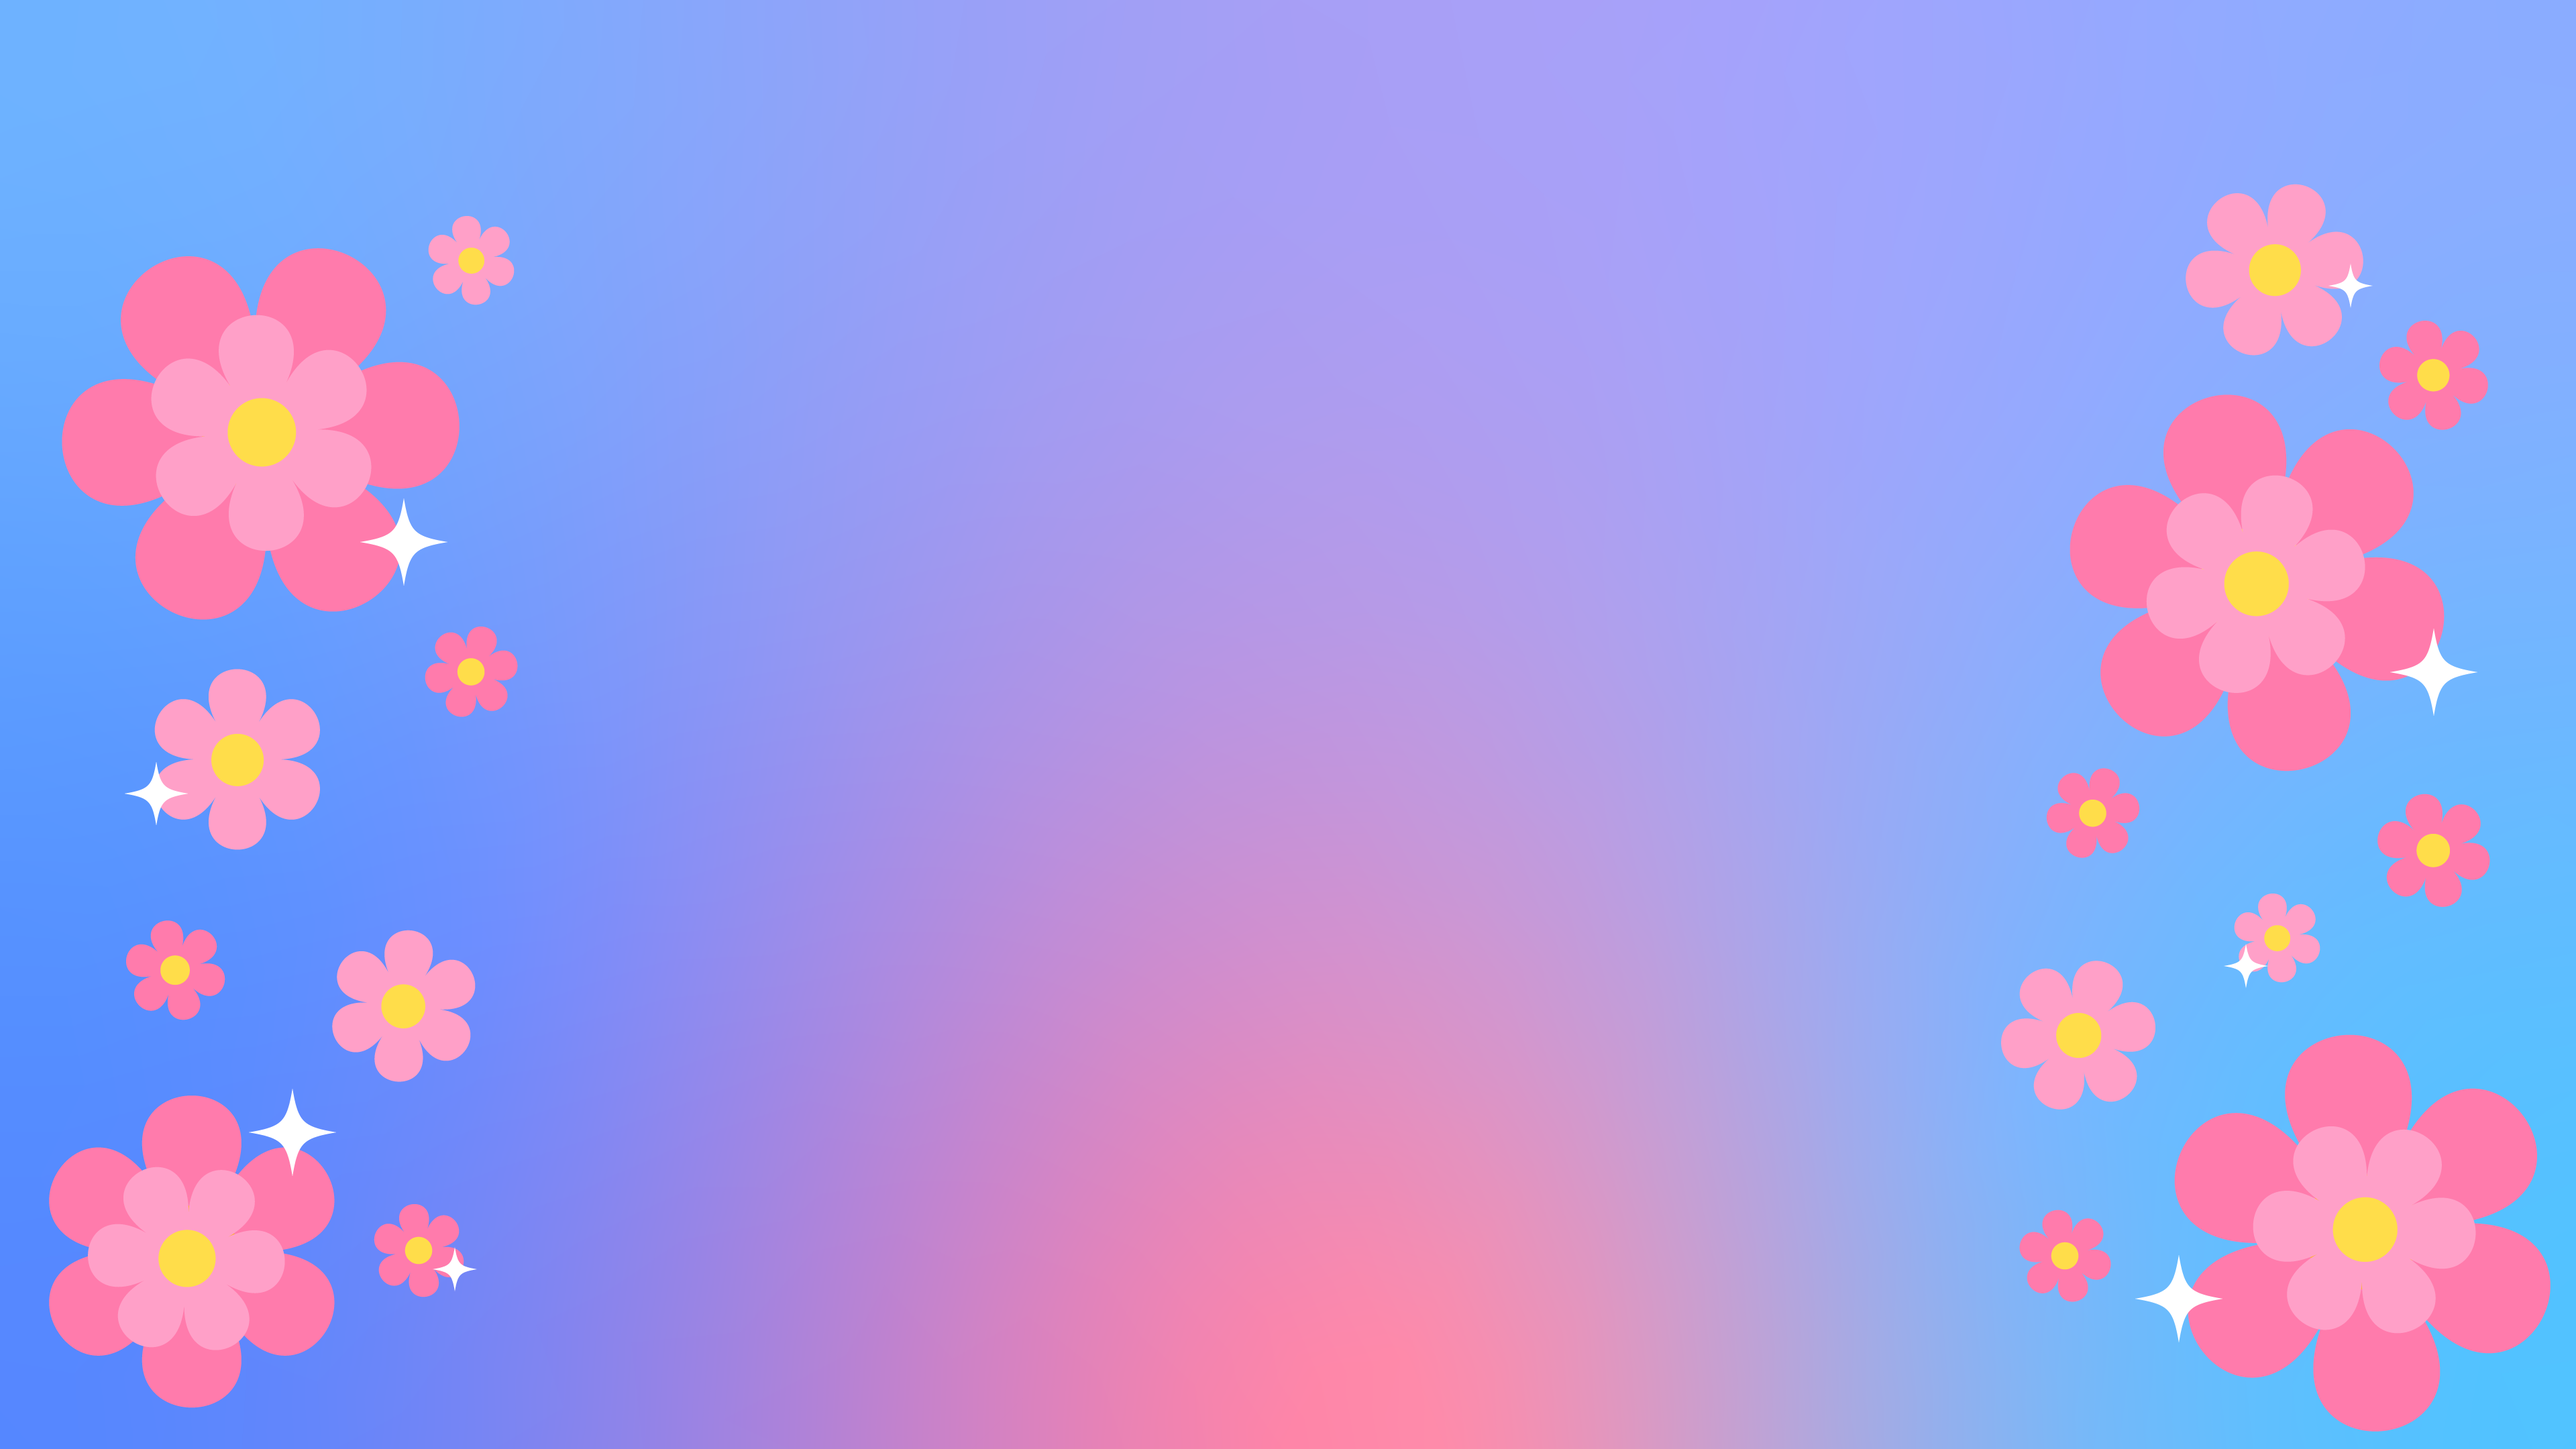
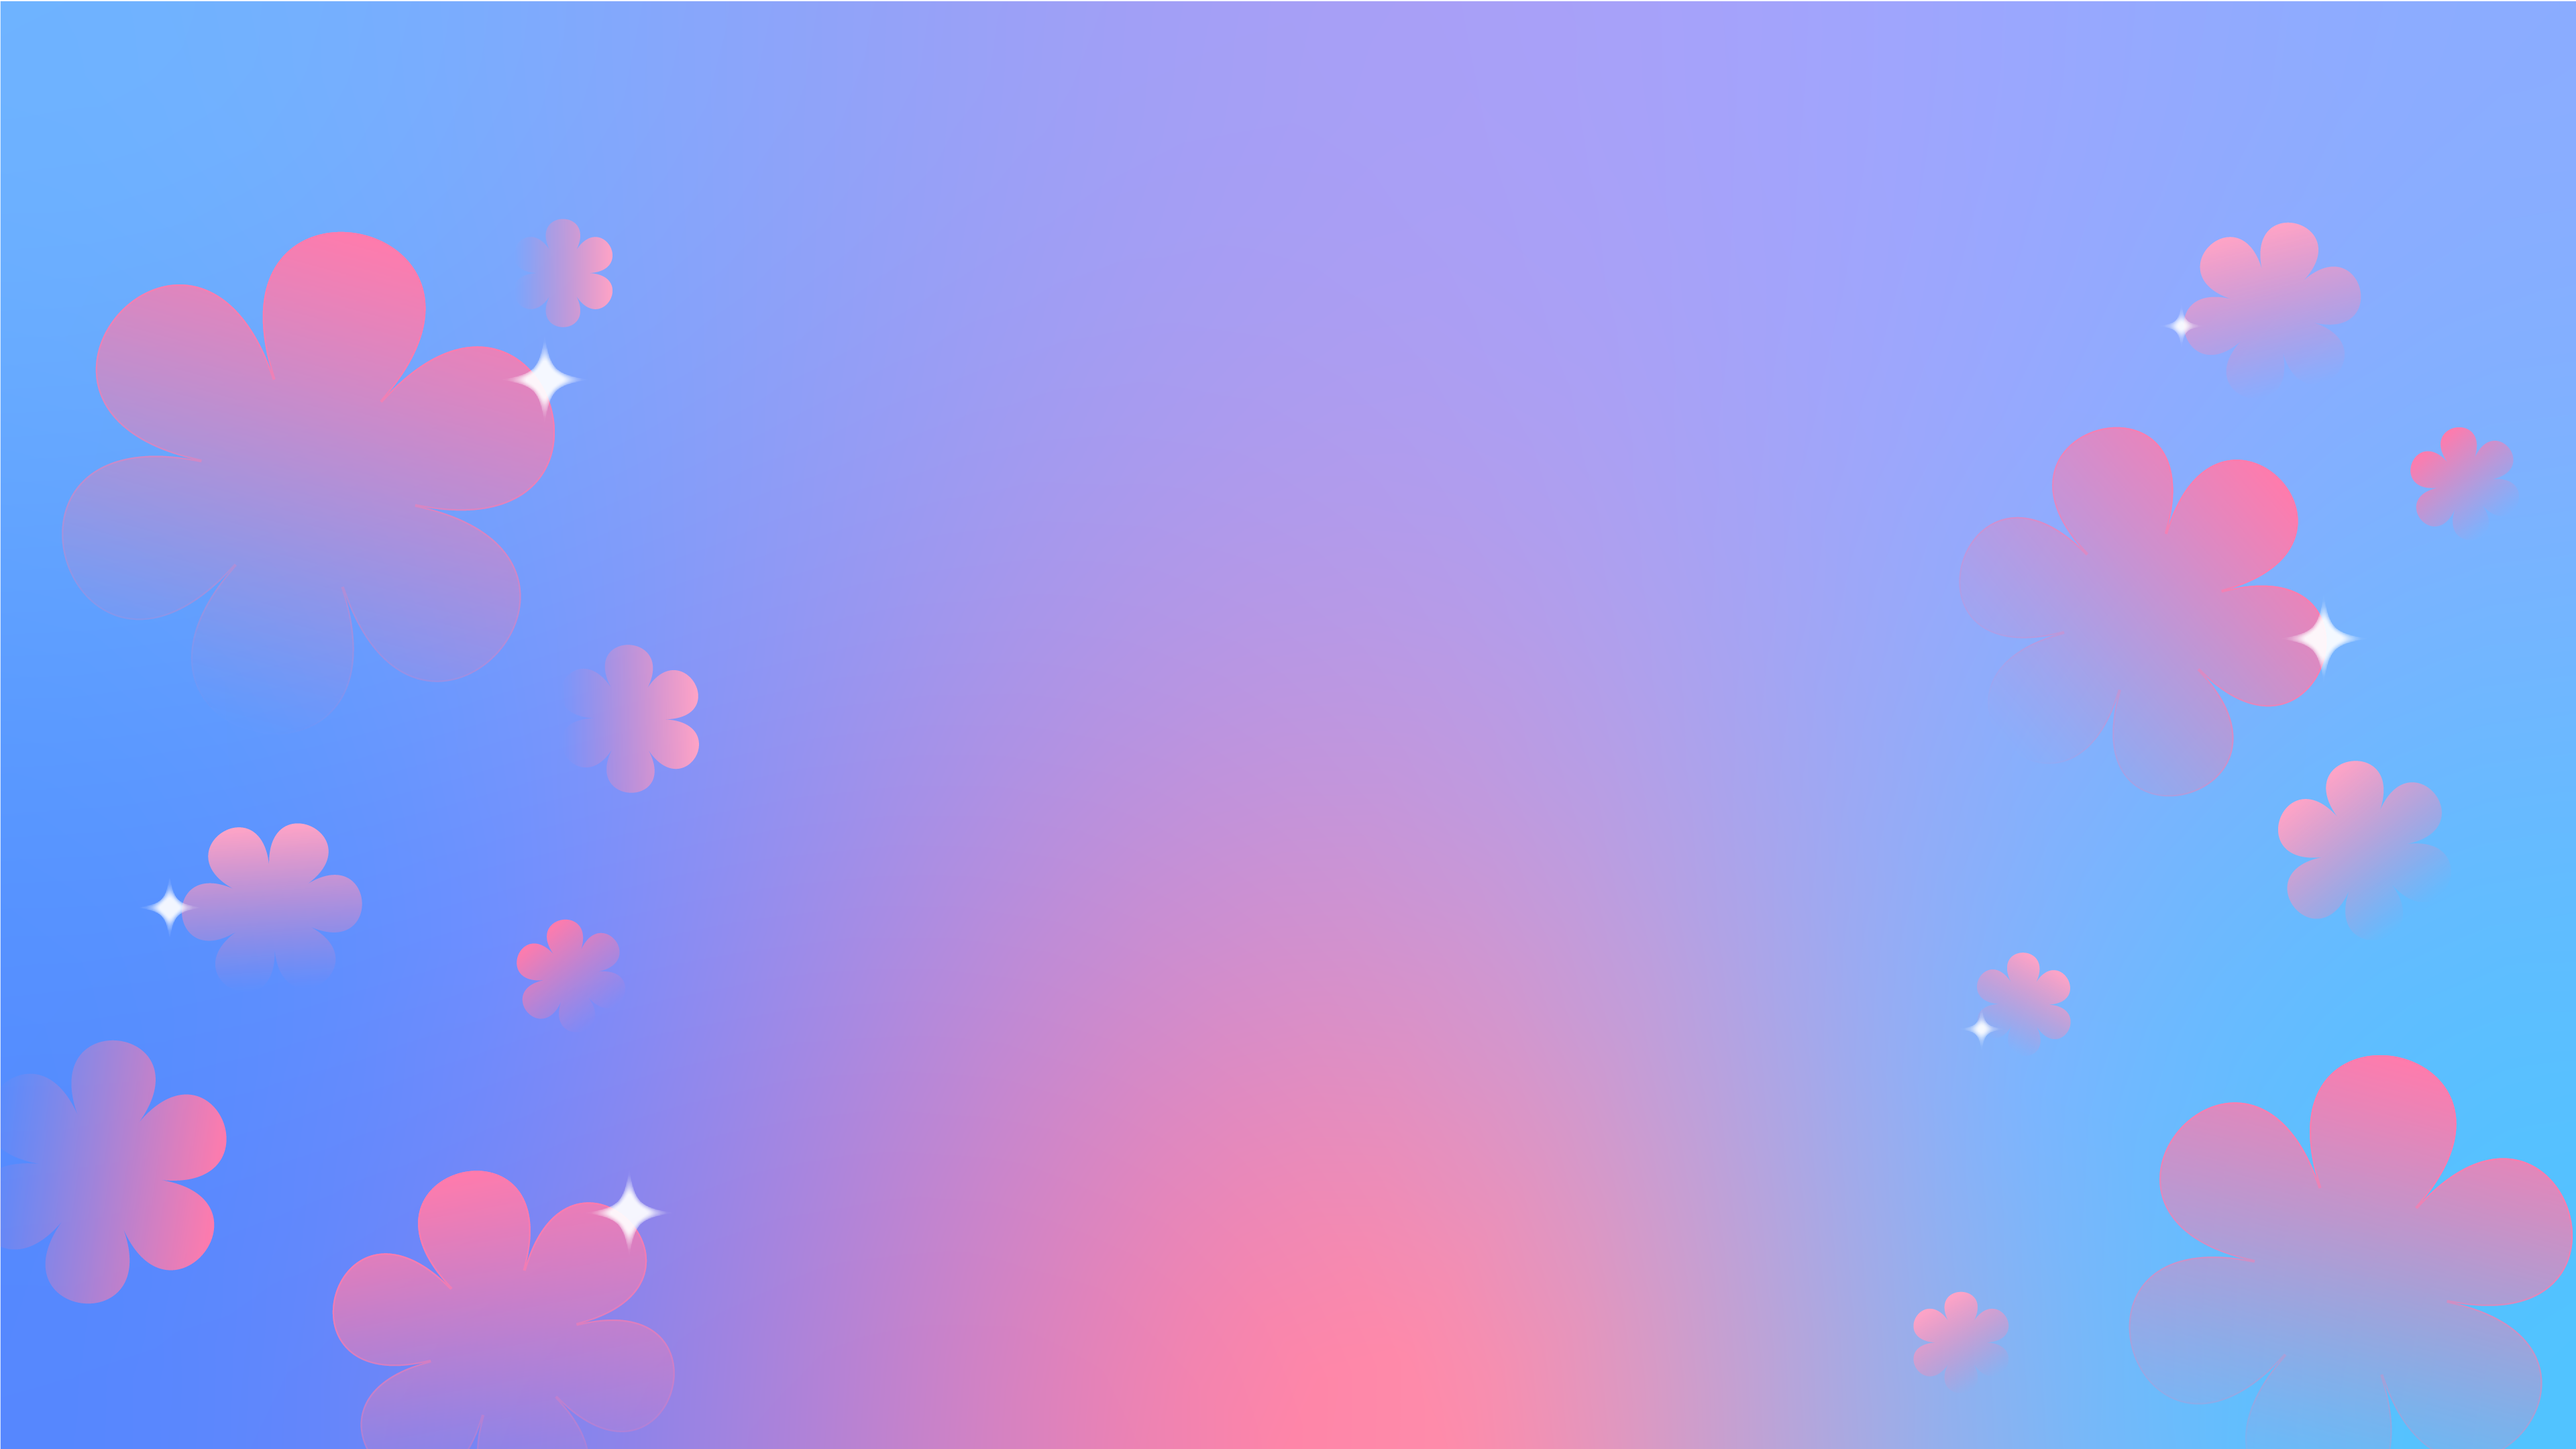
added background animation

Changed region(s): [[0.0, 0.1551, 0.2812, 1.0], [0.75, 0.1241, 1.0, 1.0], [0.7188, 0.8995, 0.7812, 0.9616]]

diff --git a/index.html b/index.html
@@ -17,18 +17,18 @@
     />
 
 	<link rel="stylesheet" href="css/styles.css">
+    <link rel="stylesheet" href="css/fade.css">
+    <link rel="stylesheet" href="test/firefly.pug">
 	<link rel="stylesheet" href="hover.css">
 
-	<link rel="preconnect" href="https://fonts.googleapis.com">
-    <link rel="preconnect" href="https://fonts.gstatic.com" crossorigin>
-    <link href="https://fonts.googleapis.com/css2?family=Playfair+Display:ital,wght@0,400;0,500;0,600;0,700;0,800;0,900;1,400;1,500;1,600;1,700;1,800;1,900&family=Raleway:ital,wght@0,100;0,200;0,300;0,400;0,500;0,600;0,700;0,800;0,900;1,100;1,200;1,300;1,400;1,500;1,600;1,700;1,800;1,900&display=swap" rel="stylesheet">
+	
 
 	<script src="https://kit.fontawesome.com/1638ad5f6b.js" crossorigin="anonymous"></script>
 </head>
  <!-- Navbar -->
  <body>
     <div  class="container-fluid splash">
-    <nav class="navbar navbar-expand-lg ">
+    <nav class="navbar navbar-light navbar-expand-lg ">
         <a class="navbar-brand" href="#"> <img id="navbarLogo" src="images/Logo.png" ></a>
         <button class="navbar-toggler" type="button" data-toggle="collapse" data-target="#navbarSupportedContent" aria-controls="navbarSupportedContent" aria-expanded="false" aria-label="Toggle navigation">
         <span class="navbar-toggler-icon"></span>
@@ -36,13 +36,13 @@
         <div class="collapse navbar-collapse" id="navbarSupportedContent">
         <ul class="navbar-nav ml-auto">
             <li class="navbar-item">
-                <a href='#pricing' class="nav-link">Work</a>
+                <a href='#work' class="nav-link">Work</a>
             </li>
             <li class="navbar-item">
-                <a href='#pricing' class="nav-link">About</a>
+                <a href='pages/about.html' class="nav-link">About</a>
             </li>
             <li class="navbar-item">
-                <a href='#' class="nav-link">Resume</a>
+                <a href='pages/resume.html' class="nav-link">Resume</a>
             </li>
             <li class="navbar-item">
             <a href='#footer' class="nav-link">Contact</a>
@@ -55,6 +55,32 @@
             <h1>rachel!</h1>
             <h3>designer & dreamer</h3>
         </div>
+        <div class="fade-blurb">
+        <h5>
+            <span>I'm</span>
+            <span>a</span>
+            <span>UI/UX</span>
+            <span>designer</span>
+            <span>at</span>
+            <span>UC</span>
+            <span>San</span>
+            <span>Diego</span>
+            <span>that</span>
+            <span>combines</span>
+        </h5>
+        <h5>
+            <span>functionality</span>
+            <span>with</span>
+            <span>imagination</span>
+            <span>to</span>
+            <span>tell</span>
+            <span>users</span>
+            <span>compelling</span>
+            <span>stories</span>
+            <span>:)</span>
+          </h5>
+        </div>
+      
     </div>
     <div id="work">
         <h2 class="header">
@@ -82,7 +108,7 @@
         <div class="reveal preview-card row"> 
 
             <div class="col-sm-6 order-first order-md-2 image-holder">
-                <img onClick="self.location='pages/evolve.html'" class="project-image-right"  src="images/debatetable_flower.png">
+                <img onClick="window.open('https://debatetable.wixsite.com/portfolio', '_blank')" class="hvr-float-shadow project-image-right" src="images/debatetable_flower.png" alt="DebateTable login and homepage prototype screens">
             </div>   
   
             <div class="col-sm-6 ">
@@ -121,7 +147,7 @@
                     </p>
                     <br>
                     <div class="hvr-grow">
-                    <button type="button" class="btn-lg btn-primary" onClick="self.location='pages/evolve.html'">view case study</button>
+                    <button type="button" class="btn-lg btn-primary" onClick="self.location='pages/cki.html'">view case study</button>
                     </div>
                 </div>
             </div>     
@@ -170,7 +196,9 @@
 
     <script src="https://code.jquery.com/jquery-3.3.1.slim.min.js" integrity="sha384-q8i/X+965DzO0rT7abK41JStQIAqVgRVzpbzo5smXKp4YfRvH+8abtTE1Pi6jizo" crossorigin="anonymous"></script>
     <script src="https://cdn.jsdelivr.net/npm/popper.js@1.14.7/dist/umd/popper.min.js" integrity="sha384-UO2eT0CpHqdSJQ6hJty5KVphtPhzWj9WO1clHTMGa3JDZwrnQq4sF86dIHNDz0W1" crossorigin="anonymous"></script>
-    <script src="https://cdn.jsdelivr.net/npm/bootstrap@4.3.1/dist/js/bootstrap.min.js" integrity="sha384-JjSmVgyd0p3pXB1rRibZUAYoIIy6OrQ6VrjIEaFf/nJGzIxFDsf4x0xIM+B07jRM" crossorigin="anonymous"></script>
+    <script  src="https://stackpath.bootstrapcdn.com/bootstrap/4.5.2/js/bootstrap.min.js"
+    integrity="sha384-B4gt1jrGC7Jh4AgTPSdUtOBvfO8shuf57BaghqFfPlYxofvL8/KUEfYiJOMMV+rV"
+    crossorigin="anonymous"></script>
     <script src="js/script.js"></script>
 </body>
 

diff --git a/css/fade.css b/css/fade.css
@@ -1,0 +1,101 @@
+h1, h3, h5 {
+    /* font-family: "Montserrat Medium";
+    max-width: 40ch; */
+    text-align: center;
+    transform: scale(0.94);
+    animation: scale 3s forwards cubic-bezier(0.5, 1, 0.89, 1);
+  }
+  @keyframes scale {
+    100% {
+      transform: scale(1);
+    }
+  }
+  
+  span {
+    display: inline-block;
+    opacity: 0;
+    filter: blur(4px);
+  }
+  
+  span:nth-child(1) {
+    animation: fade-in 0.8s 0.1s forwards cubic-bezier(0.11, 0, 0.5, 0);
+  }
+  
+  span:nth-child(2) {
+    animation: fade-in 0.8s 0.2s forwards cubic-bezier(0.11, 0, 0.5, 0);
+  }
+  
+  span:nth-child(3) {
+    animation: fade-in 0.8s 0.3s forwards cubic-bezier(0.11, 0, 0.5, 0);
+  }
+  
+  span:nth-child(4) {
+    animation: fade-in 0.8s 0.4s forwards cubic-bezier(0.11, 0, 0.5, 0);
+  }
+  
+  span:nth-child(5) {
+    animation: fade-in 0.8s 0.5s forwards cubic-bezier(0.11, 0, 0.5, 0);
+  }
+  
+  span:nth-child(6) {
+    animation: fade-in 0.8s 0.6s forwards cubic-bezier(0.11, 0, 0.5, 0);
+  }
+  
+  span:nth-child(7) {
+    animation: fade-in 0.8s 0.7s forwards cubic-bezier(0.11, 0, 0.5, 0);
+  }
+  
+  span:nth-child(8) {
+    animation: fade-in 0.8s 0.8s forwards cubic-bezier(0.11, 0, 0.5, 0);
+  }
+  
+  span:nth-child(9) {
+    animation: fade-in 0.8s 0.9s forwards cubic-bezier(0.11, 0, 0.5, 0);
+  }
+  
+  span:nth-child(10) {
+    animation: fade-in 0.8s 1s forwards cubic-bezier(0.11, 0, 0.5, 0);
+  }
+  
+  span:nth-child(11) {
+    animation: fade-in 0.8s 1.1s forwards cubic-bezier(0.11, 0, 0.5, 0);
+  }
+  
+  span:nth-child(12) {
+    animation: fade-in 0.8s 1.2s forwards cubic-bezier(0.11, 0, 0.5, 0);
+  }
+  
+  span:nth-child(13) {
+    animation: fade-in 0.8s 1.3s forwards cubic-bezier(0.11, 0, 0.5, 0);
+  }
+  
+  span:nth-child(14) {
+    animation: fade-in 0.8s 1.4s forwards cubic-bezier(0.11, 0, 0.5, 0);
+  }
+  
+  span:nth-child(15) {
+    animation: fade-in 0.8s 1.5s forwards cubic-bezier(0.11, 0, 0.5, 0);
+  }
+  
+  span:nth-child(16) {
+    animation: fade-in 0.8s 1.6s forwards cubic-bezier(0.11, 0, 0.5, 0);
+  }
+  
+  span:nth-child(17) {
+    animation: fade-in 0.8s 1.7s forwards cubic-bezier(0.11, 0, 0.5, 0);
+  }
+  
+  span:nth-child(18) {
+    animation: fade-in 0.8s 1.8s forwards cubic-bezier(0.11, 0, 0.5, 0);
+  }
+  span:nth-child(19) {
+    animation: fade-in 0.8s 1.9s forwards cubic-bezier(0.11, 0, 0.5, 0);
+  }
+  
+  @keyframes fade-in {
+    100% {
+      opacity: 1;
+      filter: blur(0);
+    }
+   }
+   

diff --git a/css/styles.css b/css/styles.css
@@ -67,6 +67,12 @@ h4 {
     font-size: 3rem;
 }
 
+h5 {
+    font-family: 'Raleway';
+    font-size: 1.5rem;
+    color:#FFF5F4 ; 
+}
+
 
 /* .center {
     display: block;
@@ -77,11 +83,15 @@ h4 {
 
 .greeting {
    text-align:center;
-   filter:drop-shadow(.5rem .5rem 1rem  rgba(244, 229, 228, 0.4));
+   filter:drop-shadow(.5rem .5rem 1rem  rgba(255, 236, 236, 0.4));
+}
+
+.fade-blurb {
+    padding-top: 3rem;
 }
 .navbar {
     padding-top: 2rem;
-    padding-bottom: 4.5rem;
+    padding-bottom: 1rem;
     padding-left: 4rem;
     padding-right: 4rem;
 }
@@ -94,6 +104,11 @@ h4 {
     font-family: 'Raleway';
     font-size: 1.5rem;
     color:  #FFF5F4 !important;   
+}
+
+.navbar-light .navbar-toggler {
+    color: #FFF5F4 !important;
+    border-color:  #FFF5F4 !important;
 }
 
 #navbarLogo {
@@ -110,13 +125,13 @@ h4 {
 }
 
 .splash {
-    /* height: 100vh; */
+    height: 100vh;
 	background-color: black;
 	width: 100%;
     background-position: center;
-    min-height: 64rem;
-    max-height:67.5rem;
-    background-image:url('../images/flower-bg.png') ;
+    /* min-height: 60rem;
+    max-height:67.5rem; */
+    background-image:url('../images/animated-bg.gif') ;
     background-size: cover;
 	
 }
@@ -133,7 +148,7 @@ h4 {
   }
 
 .project-image-left {
-    width: 60%;
+    width: 70%;
     float: right;
     /* padding-right: 5%; */
 }
@@ -149,7 +164,7 @@ h4 {
 .project-des-right {
     float: right;
     padding-left: 15%;
-    padding-right: 50%;
+    padding-right: 40%;
     padding-top: 12%;
 }
 
@@ -160,12 +175,12 @@ h4 {
 .project-des-left {
     float: left;
     padding-right: 20%;
-    padding-left: 40%;
+    padding-left: 30%;
     padding-top: 12%;
 }
 
 .project-image-right {
-    width: 60%;
+    width: 70%;
     float: left;
     /* padding-right: 5%; */
 }
